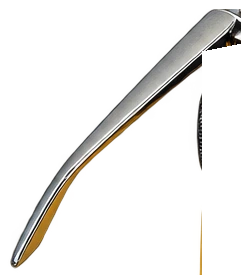
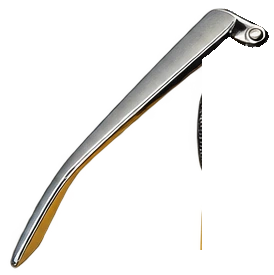
Add files via upload

diff --git a/typewriter-hero.js b/typewriter-hero.js
@@ -2,7 +2,9 @@
    Keys on the photo press for whatever letters are typed; the lever is pulled down at the end of each line. */
 (function(){
 'use strict';
-var NS='http://www.w3.org/2000/svg',BASE=322,CX=768,MAXW=470,reduce=matchMedia('(prefers-reduced-motion:reduce)').matches;
+var NS='http://www.w3.org/2000/svg',BASE=322,CX=768,MAXW=470,reduce=matchMedia('(prefers-reduced-motion:reduce)').matches,
+ DESK={vb:'188 0 1160 970',fs:27,lh:44,pt:18},      /* desktop: view is centred on the machine BODY (x=768), lever hangs out to the left */
+ MOB={vb:'188 -260 1160 1230',fs:38,lh:50,pt:-240};   /* phone: whole machine fits; taller paper so the text can be bigger */
 function boot(){var el=document.querySelector('[data-tw]');if(!el||el._tw)return false;el._tw=1;start(el);return true}
 if(!boot()){var mo=new MutationObserver(function(){if(boot())mo.disconnect()});mo.observe(document.documentElement,{childList:true,subtree:true})}
 var sleep=function(ms){return new Promise(function(r){setTimeout(r,ms)})};
@@ -19,30 +21,31 @@ function posFor(ch){var u=ch.toUpperCase();return POS[u]||ALT[ch]||POS[LETTERS[c
 function start(host){
  var H=(window.SITE&&window.SITE.home)||{},strip=function(s){return String(s||'').replace(/\*/g,'').trim()},
   speed=H.twSpeed>0?+H.twSpeed:1,loop=H.twLoop!=='once',holder=host.querySelector('.tws');
- var sv=holder.appendChild(mk('svg',{viewBox:'190 0 970 970',preserveAspectRatio:'xMidYMid meet',role:'img'}));
+ var sv=holder.appendChild(mk('svg',{viewBox:'188 0 1160 970',preserveAspectRatio:'xMidYMid meet',role:'img'}));
  var defs=mk('defs',{},sv);
- mk('image',{id:'twm',x:190,y:0,width:970,height:970,href:'machine.webp'},defs);
+ mk('image',{id:'twm',x:190,y:0,width:970,height:970,href:'machine.webp?v=3'},defs);
  var g1=mk('linearGradient',{id:'twpg',x1:0,y1:0,x2:1,y2:0},defs);[[0,'#ece4d8'],[.05,'#f6efe4'],[.95,'#f6efe4'],[1,'#e9e1d4']].forEach(function(s){mk('stop',{offset:s[0],'stop-color':s[1]},g1)});
  var g2=mk('linearGradient',{id:'twsh',x1:0,y1:0,x2:0,y2:1},defs);mk('stop',{offset:0,'stop-color':'#3a2a14','stop-opacity':0},g2);mk('stop',{offset:1,'stop-color':'#3a2a14','stop-opacity':.2},g2);
  var paper=mk('g',{},sv),lines=mk('g',{class:'twl'},mk('g',{},paper));
- mk('rect',{x:498,y:0,width:540,height:560,fill:'url(#twpg)'},paper);paper.appendChild(lines.parentNode);
+ var prect=mk('rect',{x:498,y:0,width:540,height:560,fill:'url(#twpg)'},paper);paper.appendChild(lines.parentNode);
  var caret=mk('rect',{class:'twc',width:3,height:28,style:'opacity:0'},paper);
  mk('rect',{x:498,y:270,width:540,height:66,fill:'url(#twsh)'},sv);
  mk('use',{href:'#twm'},sv);
- var lever=mk('g',{},sv);mk('image',{x:196,y:215,width:250,height:275,href:'lever.webp'},lever);
+ var lever=mk('g',{},sv);mk('image',{x:196,y:215,width:274,height:275,href:'lever.webp?v=3'},lever);
+ mk('image',{x:437,y:235,width:28,height:28,href:'hinge.webp?v=3'},sv); /* the pivot screw stays still on top of the swinging lever */
  var keysG=mk('g',{},sv);
 
- var mq=matchMedia('(max-width:700px)'),vb=function(){sv.setAttribute('viewBox',mq.matches?'470 0 596 600':'190 0 970 970')};vb();mq.addEventListener('change',vb);
+ var mq=matchMedia('(max-width:700px)'),P=function(){return mq.matches?MOB:DESK},PT=18,vb=function(){sv.setAttribute('viewBox',P().vb)};vb();
 
  /* ---- layout: wrap the admin text into lines and centre each one on the paper ---- */
  var probe=mk('text',{y:0,style:'opacity:0'},lines),TXT=[],LH=44,TOP=60,LX=[],made={};
  function w(s){probe.textContent=s;return probe.getComputedTextLength()}
- function wrap(par){var out=[];String(par).split(/\n/).forEach(function(p){var words=p.split(/\s+/).filter(Boolean),cur='';words.forEach(function(x){var t=cur?cur+' '+x:x;if(cur&&w(t)>MAXW){out.push(cur);cur=x}else cur=t});if(cur)out.push(cur)});return out}
+ function wrap(par){var out=[];String(par).split(/\n/).forEach(function(p){var words=p.split(/\s+/).filter(Boolean),cur='';words.forEach(function(x){var t=cur?cur+' '+x:x;if(cur&&w(t)>MAXW*27/P().fs){out.push(cur);cur=x}else cur=t});if(cur)out.push(cur)});return out}
  function layout(){
   var head=wrap(strip(H.h1a)).concat(wrap(strip(H.h1b))),body=wrap(strip(H.intro));
   TXT=head.concat(head.length&&body.length?['']:[],body);if(!TXT.length)TXT=['Hello'];
-  var n=TXT.length;LH=Math.min(44,260/Math.max(1,n-1));var fs=27*LH/44;lines.style.fontSize=fs+'px';
-  TOP=162-(n-1)*LH/2;
+  var n=TXT.length,p=P();PT=p.pt;LH=Math.min(p.lh,((328-p.pt)-50)/Math.max(1,n-1));var fs=p.fs*LH/p.lh;lines.style.fontSize=fs+'px';
+  TOP=((p.pt+328)/2+7)-(n-1)*LH/2-p.pt;prect.setAttribute('height',360-p.pt);
   while(lines.childNodes.length>1)lines.removeChild(lines.lastChild);
   LX=[];TXT.forEach(function(t,k){var el=mk('text',{y:TOP+k*LH},lines);el.style.fontSize=fs+'px';el.textContent=t;LX[k]=CX-el.getComputedTextLength()/2;el.setAttribute('x',LX[k]);el.textContent=''});
   sv.setAttribute('aria-label','A typewriter typing: '+TXT.join(' ').trim())}
@@ -60,7 +63,7 @@ function start(host){
   hide=function(d){paper.style.transition='transform '+d+'s ease-in';paper.style.transform='translateY(345px)'},
   moveCaret=function(k,s){caret.style.opacity=1;caret.setAttribute('x',LX[k]+lines.childNodes[k+1].getComputedTextLength()+2);caret.setAttribute('y',TOP+k*LH-23)};
  function reset(){for(var i=1;i<lines.childNodes.length;i++)lines.childNodes[i].textContent='';caret.style.opacity=0;paper.style.transition='none';paper.style.transform='translateY(345px)';paper.getBoundingClientRect()}
- function showAll(){TXT.forEach(function(t,k){lines.childNodes[k+1].textContent=t});caret.style.opacity=0;paper.style.transition='none';paper.style.transform='translateY(18px)'}
+ function showAll(){TXT.forEach(function(t,k){lines.childNodes[k+1].textContent=t});caret.style.opacity=0;paper.style.transition='none';paper.style.transform='translateY('+PT+'px)'}
 
  var vis=true,run=0;if('IntersectionObserver' in window)new IntersectionObserver(function(e){vis=e[0].isIntersecting}).observe(host);
  async function wait(ms,alive){await sleep(ms);while((!vis||document.hidden)&&alive())await sleep(300)}
@@ -73,11 +76,11 @@ function start(host){
    for(var i=1;i<=t.length;i++){if(!alive())return;var ch=t[i-1];el.textContent=t.slice(0,i).replace(/ $/,'\u00a0');if(ch!==' ')press(ch);else press(' ');moveCaret(k);
     await wait((55+Math.random()*75+(',.'.indexOf(ch)>-1?130:0))/speed,alive)}
   }
-  caret.style.opacity=0;pullLever();await wait(110,alive);if(!alive())return;paper.style.transition='transform .9s ease';paper.style.transform='translateY(18px)'; /* last lever pull: paper rises so the text sits in the middle */
+  caret.style.opacity=0;pullLever();await wait(110,alive);if(!alive())return;paper.style.transition='transform .9s ease';paper.style.transform='translateY('+PT+'px)'; /* last lever pull: paper rises so the text sits in the middle */
   if(!loop)return;await wait(6500,alive);if(!alive())return;hide(1.2);await wait(1800,alive);if(alive())play()}
 
  /* ---- lever: pulled down at the end of every line (carriage return), then springs back ---- */
- function setLever(a){lever.setAttribute('transform','rotate('+(-a).toFixed(2)+' 448 248)')}
+ function setLever(a){lever.setAttribute('transform','rotate('+(-a).toFixed(2)+' 451.3 249)')}
  var lraf=0;
  function pullLever(){var t0=performance.now(),D=180,Hd=60,R=320,MAX=28;cancelAnimationFrame(lraf);
   (function step(now){var t=now-t0,a;
@@ -88,6 +91,7 @@ function start(host){
    setLever(a);lraf=requestAnimationFrame(step)})(t0)}
 
  var go=function(){layout();if(reduce)showAll();else play()};
+ mq.addEventListener('change',function(){vb();go()}); /* rotate the phone / resize across the breakpoint: re-layout and replay */
  (document.fonts&&document.fonts.load?document.fonts.load("27px 'Special Elite'").catch(function(){}):Promise.resolve()).then(function(){return document.fonts?document.fonts.ready:0}).then(go);
  sv.addEventListener('click',function(){if(!reduce)play()});sv.style.cursor='pointer';
 }

diff --git a/typewriter-hero.css b/typewriter-hero.css
@@ -19,4 +19,4 @@
 .twb .btns{margin:0}
 .twb .av{display:flex;align-items:center;gap:8px;font-size:14px;color:var(--mute)}
 .twsr{position:absolute;width:1px;height:1px;overflow:hidden;clip:rect(0 0 0 0);white-space:nowrap}
-@media (max-width:700px){.tw{min-height:0}.tws{flex:none;aspect-ratio:596/600}}
+@media (max-width:700px){.tw{min-height:0}.tws{flex:none;aspect-ratio:1160/1230}}
